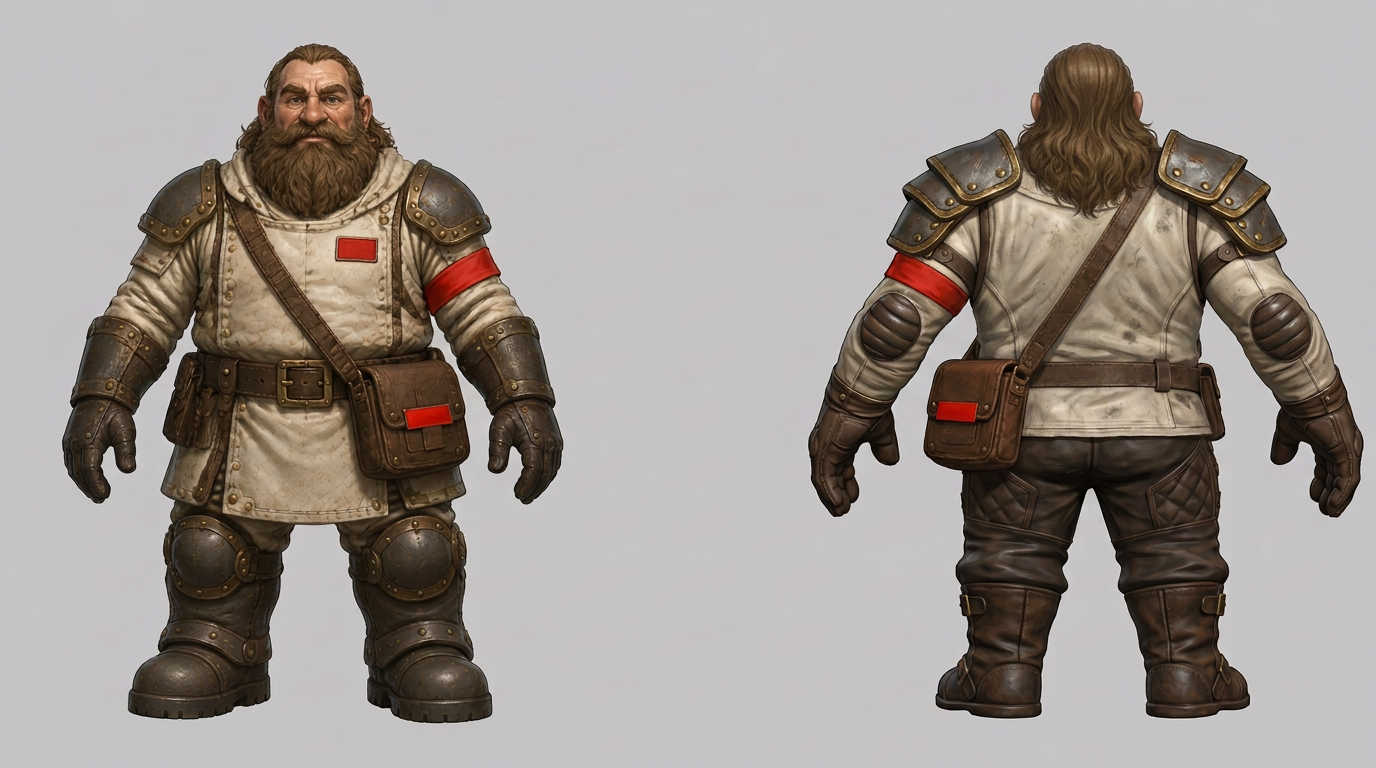
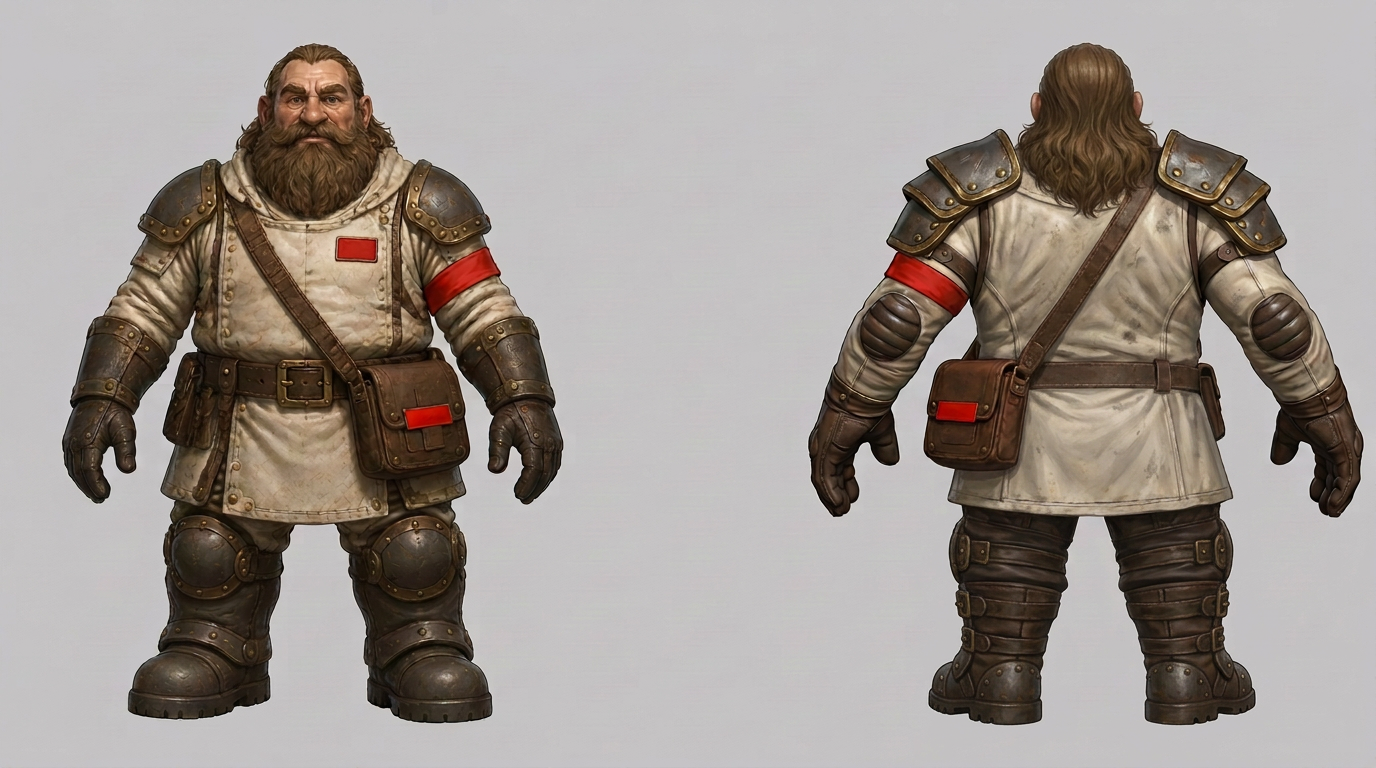
Hired hands: suits approved; medic legs matched; Tripo views for both suits
Claude-Session: https://claude.ai/code/session_018uw49qxrYcPbfx6dYbzuS6

Changed region(s): [[0.6562, 0.5, 0.9375, 0.9688]]

diff --git a/views/hired_hands/README.md b/views/hired_hands/README.md
@@ -18,3 +18,5 @@ So the hands are not separate whole-body builds: each is body D (`base_body`, Mi
 Aaron, 16:24 picks: start kit "Leather plus a department piece"; new suits "Maintenance and Medic".
 
 - `suit_maintenance.png`, `suit_medic.png`: Nano Banana 2, image2image, 1K, on body D (`views/base_body/front.png`) over the Leather set (`views/leather7_whole/`), looks from concept A (OpenArt maintenance YQmxy58kcHdDv4EYJuEy then fix IRW16XI2SoKHjGPmbkw5 = jghU8GSNUjIAZmeVXfry; medic pLs42qswFEcKiGGWo5tG then fix iYdxx0xtBdXetUwsfygu = NwfSkHS6b3c1O8SEBR5i: the cross, the cap and a backpack removed from the back view). Pieces: chest (overalls bib or smock, with shoulder plates), arm plates, belt, leg pieces with knee pads, back module (tool pack) or kit bag. Open: the medic's back view shows the Leather breeches and boots, the front iron knee pads and boots. Awaiting Aaron.
+
+Aaron, about 16:30: suits "Approve both, with legs"; start piece "Signature piece" (maintenance: the tool pack; nurse: the kit bag; security: the Security cuirass). The medic's back legs then matched to her front (OpenArt T8SQpHGmnXSQ8YncXRo0 = UkqzH3otcMK9S4iqP7Dq). Tripo views: `views/suit_maintenance/`, `views/suit_medic/`.

diff --git a/views/suit_maintenance/README.md b/views/suit_maintenance/README.md
@@ -1,0 +1,3 @@
+# Suit Maintenance (hired hands), Tripo views
+
+From `views/hired_hands/suit_maintenance.png` (approved by Aaron, 27 Nov about 16:30: "Approve both, with legs"). Front and back cut from the sheet, 1024 px, for a whole-suit build on body D like `sec7_whole` and `leather7_whole`, split into slots by ArmourFit. Made for: the Anvilhawk's hired hands (maintenance hands, under the engineer).

diff --git a/views/suit_medic/README.md b/views/suit_medic/README.md
@@ -1,0 +1,3 @@
+# Suit Medic (hired hands), Tripo views
+
+From `views/hired_hands/suit_medic.png` (approved by Aaron, 27 Nov about 16:30: "Approve both, with legs"). Front and back cut from the sheet, 1024 px, for a whole-suit build on body D like `sec7_whole` and `leather7_whole`, split into slots by ArmourFit. Made for: the Anvilhawk's hired hands (nurses, under the Surgeon).
